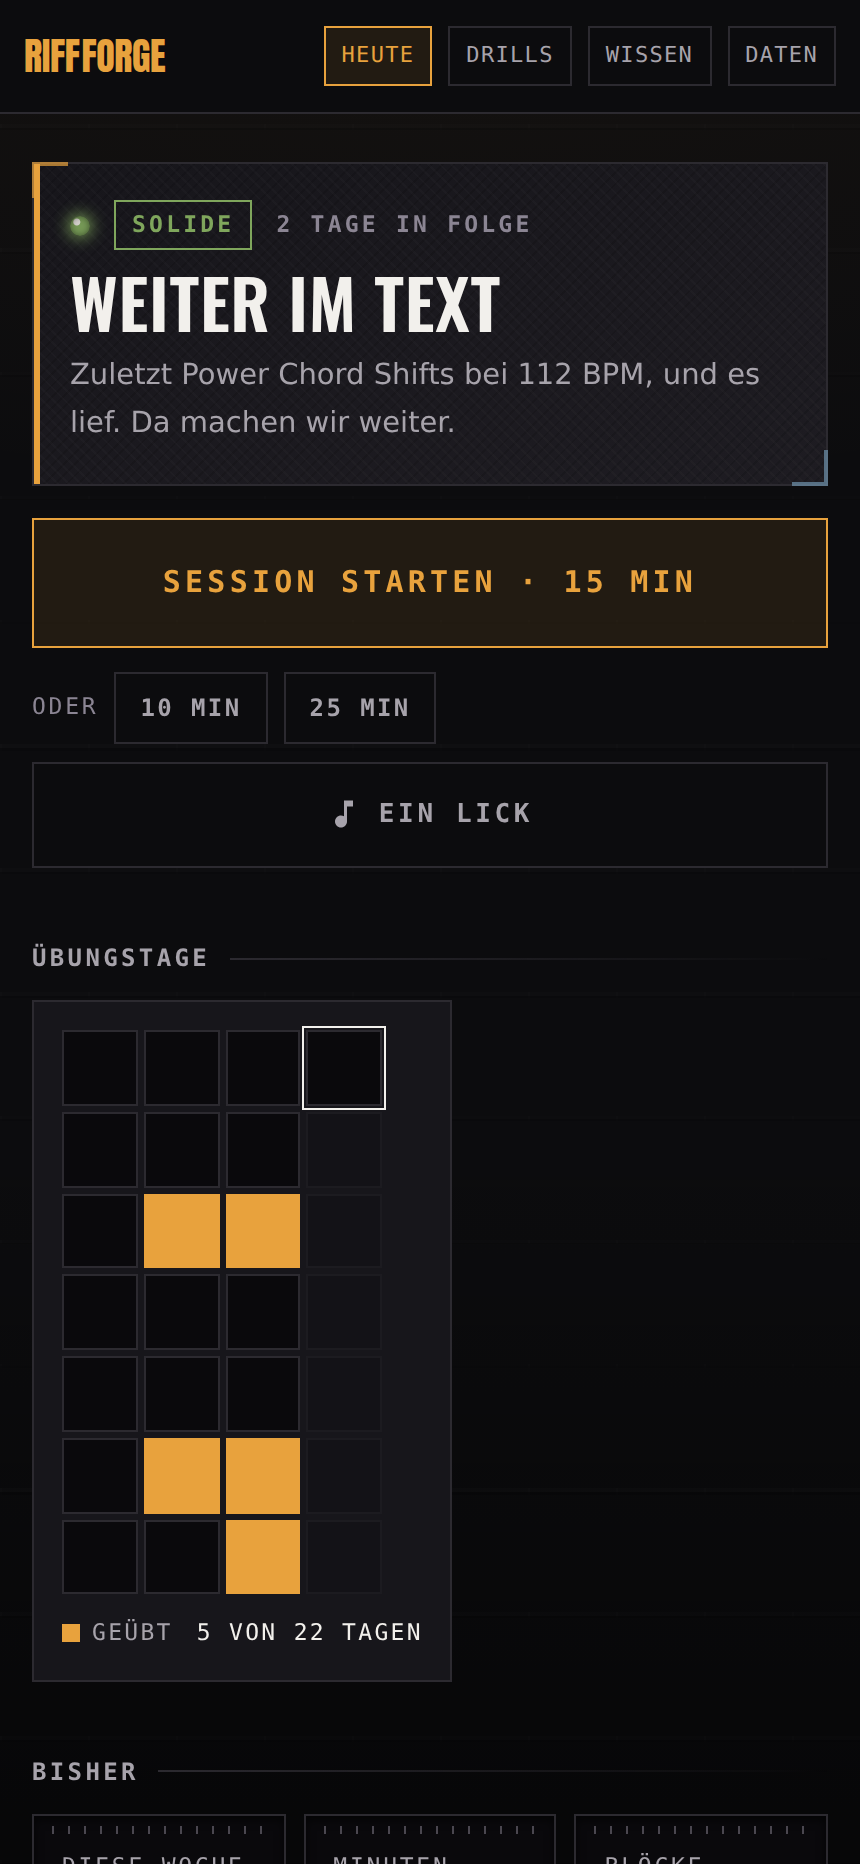
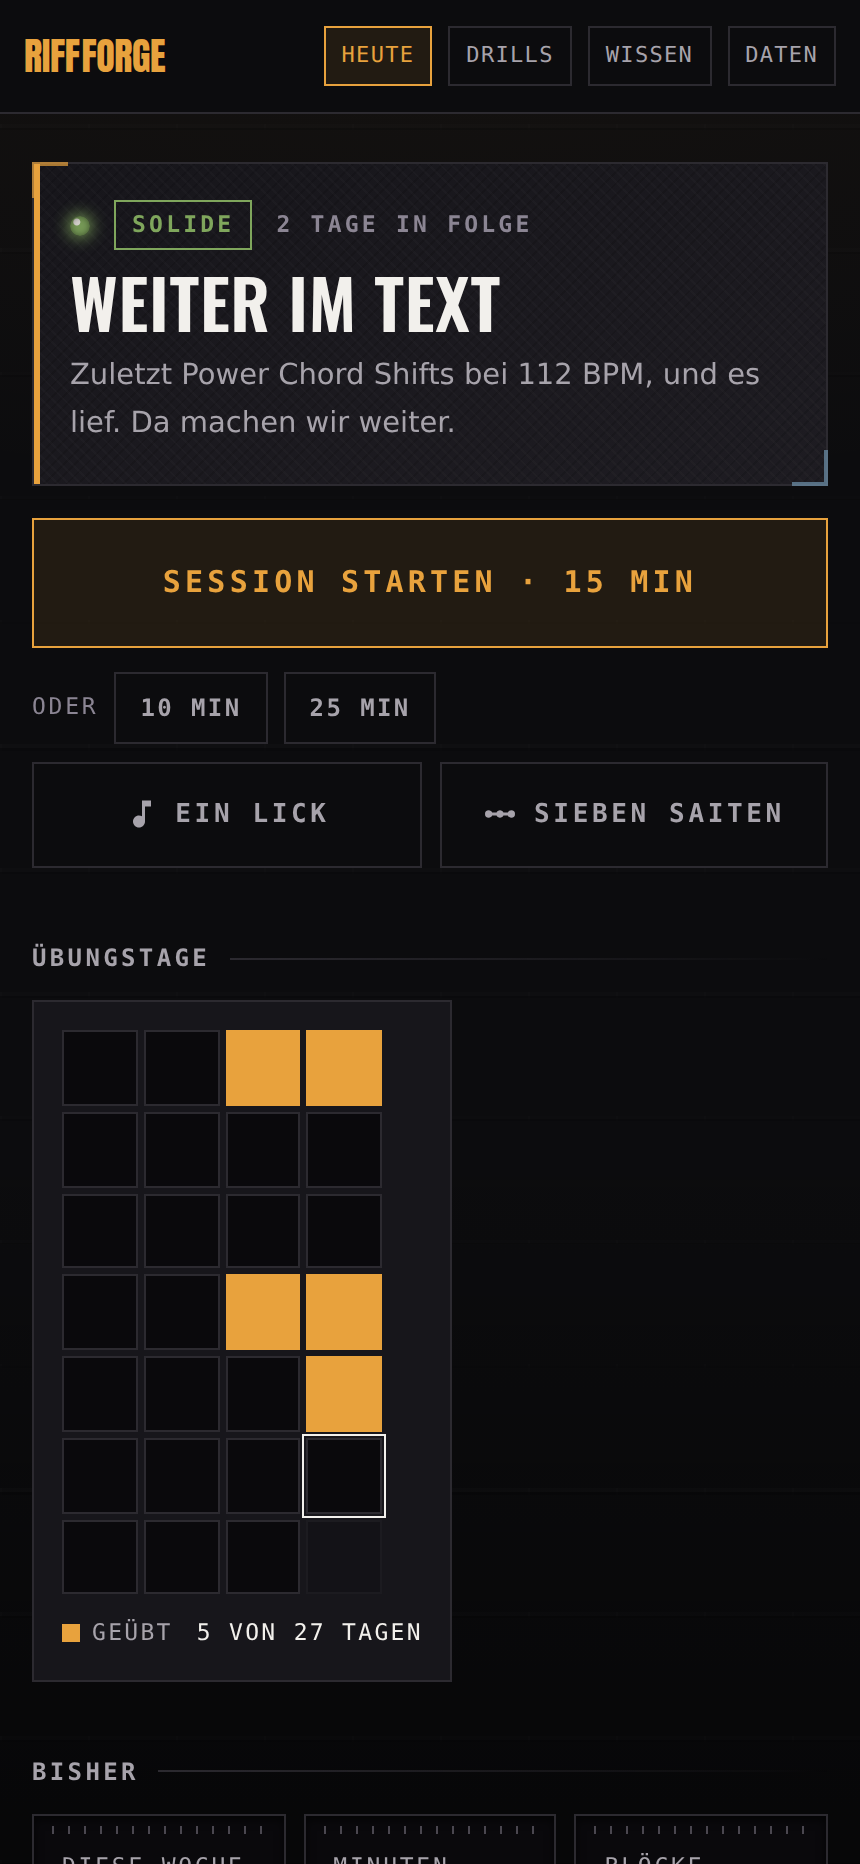
Das Griffbrett bekommt einen eigenen Grund
Daniel hat eine Griffbrett-Frage auf dem breiten Schirm geschickt: durch
das antippbare Griffbrett schien der Seitenhintergrund hindurch — und der
ist selbst ein Hals, aus denselben Massen gezeichnet, nur verschoben.
Ergebnis: fremde Einlagen zwischen den Bünden, Linien quer über den Saiten.
Bei einer Frage, deren Antwort eine Stelle auf dem Hals *ist*, liest sich
jeder solche Punkt als Hinweis.

Das Griffbrett steht jetzt auf `--sunken`, mit Rand — genau wie die
Tabulatur im Block. Ein Instrument zum Ablesen bekommt eine eigene,
deckende Fläche. Die Regel steht in CLAUDE.md, damit das nächste
Ablese-Element sie gleich mitbekommt.

Geprüft auf 1440 und 390 px mit derselben Frage wie im Screenshot: nur noch
die eigenen Einlagen sind zu sehen. Die Beschriftung auf dem neuen Grund
ist durch den Kontrasttest gedeckt, der `--sunken` ohnehin als einen der
vier Gründe nachrechnet.

Die README-Bilder sind neu aufgenommen. Neben `wissen.png` mit dem neuen
Griffbrett waren auch `heute.png` und `heute-desktop.png` veraltet — sie
zeigten noch den einzelnen Lick-Knopf von vor dem Sieben-Saiter-Modus.

Claude-Session: https://claude.ai/code/session_012LvptsAaijysVFdLtB85w5

diff --git a/components/theory/fretboard.tsx b/components/theory/fretboard.tsx
@@ -62,7 +62,15 @@ export function Fretboard({ gegeben = [], gewaehlt, loesung, onPick }: Fretboard
     liste?.some((stelle) => stelle.saite === saite && stelle.bund === bund) ?? false
 
   return (
-    <div className="-mx-1 overflow-x-auto px-1 py-1">
+    // Eigener, deckender Grund — wie die Tabulatur im Block.
+    //
+    // Der Seitenhintergrund ist selbst ein Hals, aus denselben Massen
+    // gezeichnet. Ohne eigene Fläche scheinen seine Einlagen und Saiten durch
+    // dieses Griffbrett hindurch, nur gegen es verschoben: ein Punkt zwischen
+    // zwei Bünden, eine Linie quer über eine Saite. Auf einem Bildschirm, auf
+    // dem die Antwort eine Stelle auf dem Hals *ist*, sieht jeder fremde Punkt
+    // aus wie ein Hinweis — und zwei Hälse übereinander wie ein Fehler.
+    <div className="overflow-x-auto border border-line bg-sunken px-2 py-3">
       <svg
         viewBox={`0 0 ${breite} ${hoehe}`}
         className="block w-full"

diff --git a/CLAUDE.md b/CLAUDE.md
@@ -148,6 +148,16 @@ Komponente.
   gehören. `--hals` steht deshalb schmal auf 0,28 und erst ab 900 px auf 1.
   Dieselbe Schwelle wie `wide:`. Wer ein Flächenmuster hinzufügt, prüft es
   zuerst auf 390 px.
+- **Wo der Hals eine Antwort ist, darf der Grund kein Hals sein.** Das
+  antippbare Griffbrett war durchsichtig, und der Seitenhintergrund ist aus
+  denselben Massen gezeichnet — nur gegen das Griffbrett verschoben. Auf
+  einem breiten Schirm, wo `--hals` auf 1 steht, sassen dann fremde
+  Einlagen zwischen den Bünden und Linien quer über den Saiten. Bei einer
+  Frage, deren Antwort eine Stelle auf dem Hals *ist*, liest sich jeder
+  solche Punkt als Hinweis. Das Griffbrett steht deshalb auf `--sunken`,
+  mit Rand, wie die Tabulatur im Block: ein Instrument zum Ablesen bekommt
+  eine eigene, deckende Fläche. Wer ein weiteres Ablese-Element baut, gibt
+  ihm dieselbe.
 - **Vier Bauteile tragen den Metal-Twist, und jedes hat eine Grenze.**
   `.winkel` sind die Eckwinkel am Road-Case — **höchstens zwei je Bildschirm**,
   und nur auf dem, was gerade dran ist: die Ansage auf *Heute*, der laufende
